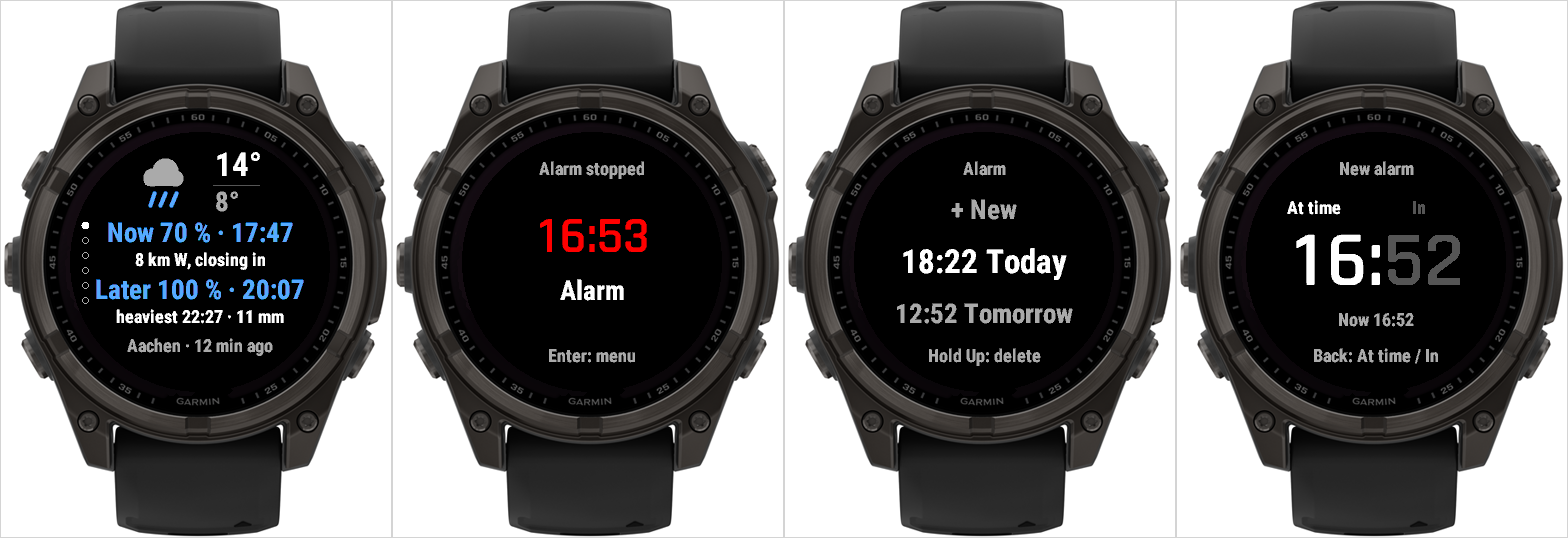
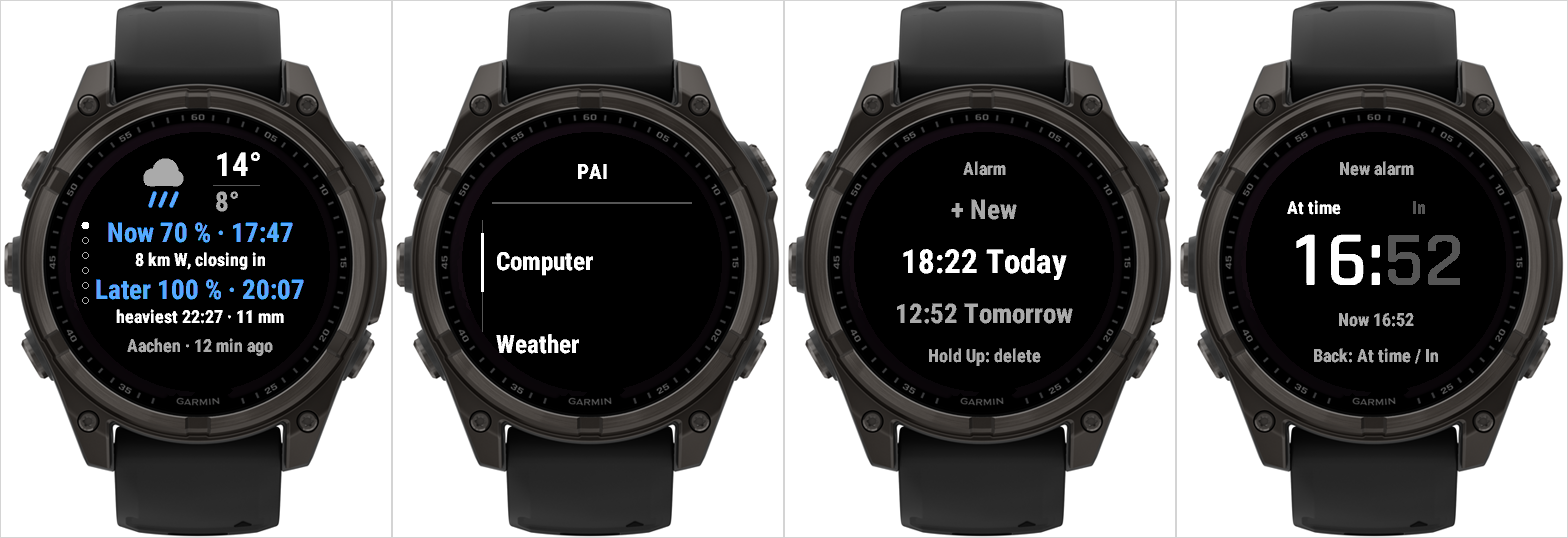
Return to the menu after the app was hidden; stop a ringing alarm silently after a second idle on the menu
- onActive after onInactive pops back to the menu, one screen per tick; a call survives a hide under 10 s
- the alarm check no longer runs at launch, so a quick press into a sub-app never waits for it
- a ringing alarm found by the app or the glance is dismissed with one short buzz, no screen

Changed region(s): [[0.3125, 0.3569, 0.4375, 0.5651], [0.3125, 0.6245, 0.4062, 0.684], [0.3438, 0.2974, 0.4062, 0.3271]]

diff --git a/docs/api.md b/docs/api.md
@@ -170,6 +170,6 @@ Computer can hand the call to a session. State events then carry `"owner": "sess
 
 `POST /api/watch/log` takes the same body as the call's log route, `{"batch": <n>, "sent_t": <ms>, "lines": [{"t": <ms>, "ev": "<name>", …}]}`, for the lines the watch has while no call is up to carry them. During a call the lines go to the call's own `…/log`. A log request never goes ahead of audio, a press, pieces or events. `t` and `sent_t` are the watch's uptime in milliseconds, so a late batch can be placed in time. The watch keeps up to 120 lines; after an overflow the first 20 stay and a `log_dropped` line counts the rest.
 
-What the lines say: a `device` line at the start of a call, request errors with their codes and the first retries, round trips of slow requests, the first chunk of a turn (size, whether it starts with `OggS`), the first playback and its states, capture and playback errors, free memory, every `buzz`, every tap on the call screen (`tap`, `uptime_ms`; a tap does nothing else, and Start acts only on the button), and every Start the call took (`start`, `action`: 1 try again, 2 send, 3 cut, 4 begin a turn). A `launch` line says how the app was opened (`how`: the launch state as the watch gives it, and `glance`), `mic_live` (`since_launch_ms`) how long the first *speak* took from there, and an `exit` line why the app ended (`cause`: `back` for Back on the menu, `system` for anything else, such as the glance list's timeout, another app or the watch closing it), after how long (`uptime_ms`) and whether a call was up (`in_call`). The lines a run did not get to send, the `exit` line among them, are kept on the watch at its exit; the next launch puts them at the front of its log, closed by a `stored_end` line (`lines`: how many came before it), and they leave with that run's first batch, on whichever of the two routes it uses.
+What the lines say: a `device` line at the start of a call, request errors with their codes and the first retries, round trips of slow requests, the first chunk of a turn (size, whether it starts with `OggS`), the first playback and its states, capture and playback errors, free memory, every `buzz`, every tap on the call screen (`tap`, `uptime_ms`; a tap does nothing else, and Start acts only on the button), and every Start the call took (`start`, `action`: 1 try again, 2 send, 3 cut, 4 begin a turn). A `launch` line says how the app was opened (`how`: the launch state as the watch gives it, and `glance`), `mic_live` (`since_launch_ms`) how long the first *speak* took from there, and an `exit` line why the app ended (`cause`: `back` for Back on the menu, `system` for anything else, such as the glance list's timeout, another app or the watch closing it), after how long (`uptime_ms`) and whether a call was up (`in_call`). An `inactive` line marks the app being hidden while it keeps running, and an `active` line its return, with how long it was away (`hidden_ms`), whether a call was up (`in_call`) and whether it kept its screen (`kept`) instead of returning to the menu. The alarm check leaves `alarm_ringing` (`count`) and `alarm_stopped` (`ok`) when it finds one ringing, and a `buzz` line with `cue` `alarm`. The lines a run did not get to send, the `exit` line among them, are kept on the watch at its exit; the next launch puts them at the front of its log, closed by a `stored_end` line (`lines`: how many came before it), and they leave with that run's first batch, on whichever of the two routes it uses.
 
 With the app setting "Debug log" on (the default of the beta) the lines also carry a `req` (`lane`, `ms`, `code`, `bytes`) for every answered request, the capture states, the events and the pieces' fetch and play times. With it on or off, a turn leaves one `turn_summary` besides the errors and retries: `mic_ms` (microphone start to its first data), `bytes`, then counted from the press `stop_ms` (the capture stopped), `sent_ms` (the server had the press) and `sound_ms` (the first piece began to play), `piece_ms` (from the press being taken to the first piece being known), `fetch_ms` (that piece's download), `pieces` and `gap_max_ms` (the longest silence between pieces); a step that did not happen is `-1`. A `stall` line (`gap_ms`) marks a gap of more than 1.5 s in the watch's own loop.

diff --git a/README.md b/README.md
@@ -13,15 +13,16 @@ A Garmin watch app for your PAI Cloud server: see whether it will rain, and set,
 [![CI](https://github.com/frederikberg/pai-garmin/actions/workflows/ci.yml/badge.svg)](https://github.com/frederikberg/pai-garmin/actions/workflows/ci.yml)
 [![License: MIT](https://img.shields.io/badge/License-MIT-yellow.svg)](https://opensource.org/licenses/MIT)
 
-Open it and a small menu shows, with Computer as its first entry: one Start and, on watches with audio, Computer is a spoken call with the server. A buzz says when to speak, Start sends what you said, the answer plays with its sentence on screen, Start during the answer cuts it off, every press is confirmed by a buzz, and Back hangs up and returns to the menu. If an alarm rings, opening the app stops it. Below Computer the weather shows a symbol with the highest and lowest temperature for the next twelve hours above the chance of rain now and later, in two rows, and Down pages on to the rain bars, the temperature, the UV index, four days and the radar picture; the alarms are one entry further down: pick an hour and a minute, press Start, done, or switch to a time from now in hours, minutes and seconds. The last entry, *Self-report*, takes a face (or none) and a spoken note and sends them to the server. What you set on the watch shows up on your phone and in the web app, and the other way round.
+Open it and a small menu shows, with Computer as its first entry: one Start and, on watches with audio, Computer is a spoken call with the server. A buzz says when to speak, Start sends what you said, the answer plays with its sentence on screen, Start during the answer cuts it off, every press is confirmed by a buzz, and Back hangs up and returns to the menu. If an alarm rings, opening the app (or just the glance) stops it with one short buzz. Below Computer the weather shows a symbol with the highest and lowest temperature for the next twelve hours above the chance of rain now and later, in two rows, and Down pages on to the rain bars, the temperature, the UV index, four days and the radar picture; the alarms are one entry further down: pick an hour and a minute, press Start, done, or switch to a time from now in hours, minutes and seconds. The last entry, *Self-report*, takes a face (or none) and a spoken note and sends them to the server. What you set on the watch shows up on your phone and in the web app, and the other way round.
 
 <p align="center">
-  <img src="docs/images/overview.png" alt="The watch app: the weather, a ringing alarm, the alarm list and the time entry" width="100%">
+  <img src="docs/images/overview.png" alt="The watch app: the weather, the menu, the alarm list and the time entry" width="100%">
 </p>
 
 ## Why
 
-- **Opening it stops the alarm.** An alarm that is ringing is stopped the moment the app opens, with no press, so the phone stops pushing too; the screen says it was stopped.
+- **Opening it stops the alarm.** Open the app and leave it on the menu for a second, or look at its glance, and a ringing alarm is stopped with one short buzz, so the phone stops pushing too. A quick press into a sub-app never waits for that check.
+- **Always the same presses.** The app always comes back on its menu, also after the watch face, another app or the glance list's timeout, so the same buttons always lead to the same screen.
 - **Built for buttons.** Every step works with the physical buttons alone; the time entry is hours, then minutes (then seconds for a time from now), then save.
 - **Your server, not a cloud account.** The app talks only to the PAI Cloud server you enter in its settings.
 

diff --git a/docs/usage.md b/docs/usage.md
@@ -10,12 +10,13 @@ The key travels through Garmin's app settings, so revoke it on the server if you
 
 However you open the app (the app list, a hot key set to the app, or the glance list, where the glance shows the next alarm, or that one rings, and Start opens the app) the menu comes first. It appears at once, without waiting for the network: *Computer* (selected, only on watches with audio), *Weather*, *Alarm* and, on watches with audio, *Self-report*. Start opens the screen you chose, and only then does anything go to the server, so from a hot key one more Start begins a call.
 
-Right after the app opens it also checks, in the background, whether an alarm rings. The check goes out first, so a screen opened in the meantime shows "Loading..." for a moment and its request follows once the check is over. If nothing rings, the check is invisible. If an alarm rings, the app stops every ringing alarm by itself, drops whatever you had just opened and shows the alarm's time and name with "Stopping..." and then "Alarm stopped"; Start returns to the menu. If stopping fails, the screen says why and Start tries again. The glance only shows that an alarm rings; it never stops it.
+The app also comes back on the menu after it was hidden: the watch face, another app, recent apps or the glance list. A Computer call stays up through a hide of less than ten seconds (a notification, the music controls); a longer one hangs it up on the way back to the menu, and a call the app never returns to ends on the server once the watch has stopped asking for it.
+
+If the menu stays on screen for a second after the app opened or came back, with no sub-app chosen, the app checks whether an alarm rings. If one does, every ringing alarm is stopped and one short buzz says so; nothing else changes on screen. A sub-app chosen within that second skips the check, so a quick way in never waits for it; a sub-app chosen while the check is out shows "Loading..." until it is over. The glance stops a ringing alarm it sees in the same way, with the same buzz.
 
 Back leaves a screen; Back on the menu exits the app.
 
 <p align="center">
-  <img src="images/ringing.png" alt="The screen after a ringing alarm was stopped: Alarm stopped, 14:39, Alarm, with the hint Enter: menu" width="30%">
   <img src="images/home.png" alt="The menu with Computer selected and Weather below it" width="30%">
 </p>
 

diff --git a/CHANGELOG.md b/CHANGELOG.md
@@ -4,6 +4,11 @@ All notable changes are documented here. The format follows [Keep a Changelog](h
 
 ## [Unreleased]
 
+### Changed
+
+- The app comes back on its menu after it was hidden (the watch face, another app, recent apps, the glance list). A Computer call survives a hide of less than ten seconds; a longer one hangs it up.
+- Opening the app sends nothing until a sub-app is chosen. The check for a ringing alarm runs only after the menu has stayed on screen for a second; a ringing alarm is stopped with one short buzz and no screen. The glance stops a ringing alarm it sees the same way.
+
 ### Added
 
 - A new alarm can be set as a time from now: Back from the hours of the time entry reaches the choice *At time* / *In*, and *In* picks hours, minutes and seconds starting at 0:00:00, shows when the alarm will ring and saves now plus the duration (zero is refused). An alarm whose time has seconds is listed with them.
